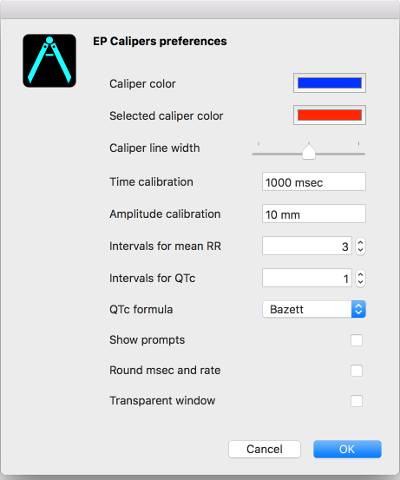
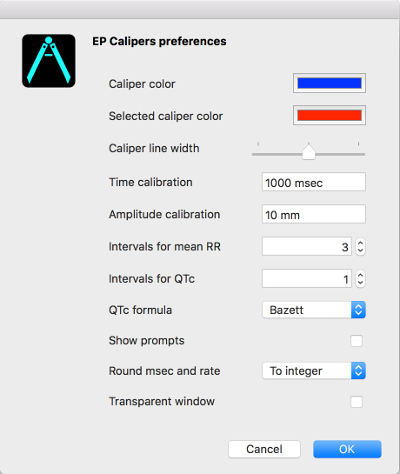
Update help file

diff --git a/EPCalipersHelp/Contents/Resources/fr.lproj/pgs/measurements.html b/EPCalipersHelp/Contents/Resources/fr.lproj/pgs/measurements.html
@@ -5,7 +5,7 @@
 <head>
 <meta http-equiv="Content-Type" content="text/html;charset=utf-8" />
 <meta name="viewport" content="width=device-width, initial-scale=1" />
-<title></title>
+<title>&lrm;</title>
 <meta name="generator" content="Org mode" />
 <meta name="author" content="David Mann" />
 <style type="text/css">
@@ -185,7 +185,7 @@
 @licstart  The following is the entire license notice for the
 JavaScript code in this tag.
 
-Copyright (C) 2012-2017 Free Software Foundation, Inc.
+Copyright (C) 2012-2018 Free Software Foundation, Inc.
 
 The JavaScript code in this tag is free software: you can
 redistribute it and/or modify it under the terms of the GNU
@@ -229,29 +229,29 @@ for the JavaScript code in this tag.
 </head>
 <body>
 <div id="content">
-<div id="outline-container-org5c550ef" class="outline-2">
-<h2 id="org5c550ef"><img src="../../shrd/icon_32x32@2x.png" alt="icon_32x32@2x.png" /> Prendre des mesures</h2>
-<div class="outline-text-2" id="text-org5c550ef">
+<div id="outline-container-org700098b" class="outline-2">
+<h2 id="org700098b"><img src="../../shrd/icon_32x32@2x.png" alt="icon_32x32@2x.png" /> Prendre des mesures</h2>
+<div class="outline-text-2" id="text-org700098b">
 </div>
-<div id="outline-container-orgd1e5402" class="outline-3">
-<h3 id="orgd1e5402">L’intervalle du compas</h3>
-<div class="outline-text-3" id="text-orgd1e5402">
+<div id="outline-container-org159503d" class="outline-3">
+<h3 id="org159503d">L’intervalle du compas</h3>
+<div class="outline-text-3" id="text-org159503d">
 <p>
 L’intervalle mesuré par chaque compas est indiqué au dessus ou à coté de la barre transversale du compas.  Avant l’étalonnage des compas, les mesures sont indiquées dans des unités arbitraires (des points, égals environ aux pixels d’écran).  Les compas d’angle montrent l’angle mesuré en degrés et il ne faut pas de les étalonner. 
 </p>
 </div>
 </div>
-<div id="outline-container-orgc0c1740" class="outline-3">
-<h3 id="orgc0c1740">Invites sur écran</h3>
-<div class="outline-text-3" id="text-orgc0c1740">
+<div id="outline-container-org3c7841b" class="outline-3">
+<h3 id="org3c7841b">Invites sur écran</h3>
+<div class="outline-text-3" id="text-org3c7841b">
 <p>
 Si la <a href="./preferences.html">préférence</a> <i>Des messages-guides</i> est choisi (c’est par défaut) l’application vous guidera avec des instructions détaillées sur comment on prend chaque mesure.  Après que vous apprenez comment faire les mesures vous pouvez désactiver cette préférence pour réduire le nombre des messages-guides.  Des messages-guides se montrent en haut de la fênetre, juste au-dessous des barres d’outils. Par exemple, en mesurant l’intervalle RR moyen, si la préférence <i>Des message-guides</i> est activée, l’application va d’abord vous inviter à choisir un compas de temps, puis l’étendre sur un nombre d’intervalles, et enfin cliquer <i>Prochain</i> sur la barre d’outils <i>Navigation</i>.  Une boîte de dialogue apparaîtra et demandera combien d’intervalles sont mesurés.  Après l’entrée du nombre et avoir cliqué sur le bouton <i>Calculer</i>, le résultat apparaîtra.  Si la préférence <i>Des messages-guides</i> est désactivée, vous pouvez choisir un compas et l’étendre sur un nombre d’intervalles sans messages-guides, et puis appuyer le bouton <i>FCM</i> (Fréquence cardiaque moyenne) ou la commande de menu <b>Compas | Intervalle moyen/Fréquence moyenne</b>.  Le resultat sera le même.
 </p>
 </div>
 </div>
-<div id="outline-container-org112abc2" class="outline-3">
-<h3 id="org112abc2">Étalonnage</h3>
-<div class="outline-text-3" id="text-org112abc2">
+<div id="outline-container-orgd5bf533" class="outline-3">
+<h3 id="orgd5bf533">Étalonnage</h3>
+<div class="outline-text-3" id="text-orgd5bf533">
 <p>
 Il faut étalonner des compas avant que des mesures peuvent être faire.  Si la préférence <i>Des message-guides</i> est activée, appuyer le bouton <i>Étalonner</i> ou choisir la commande de menu <b>Compas | Étalonner</b>.  Suivre les invites sur écran pour choisir un compas et l’étendre sur un intervalle connu (p.e. 1000 msec pour un compas de temps ou 10 mm pour un compas d’amplitude).  Appuyer le bouton <i>Prochain</i>.  Dans la boîte de dialogue qui apparait, assurer-vous que l’intervalle correspond à la mesure.  Saisir l’intervalle d’étalonnage et les unités (les deux), p.e. 1000 msec ou 1 mV.  Appuyer le bouton <i>Étalonner</i> dans la boîte de dialogue pour fixer l’étalonnage.  Noter qu'il faut que les compas de temps et d'amplitude soient étalonnés individuellement.  Après l'étalonnage, les compas montreront les intervalles avec les unités utilisées pour les étalonner.  Des nouveaux compas créés utiliseront le même étalonnage.
 </p>
@@ -265,33 +265,33 @@ Il est important d’utiliser des unités de temps comme <i>msec</i> ou <i>sec</
 </p>
 </div>
 </div>
-<div id="outline-container-org32b1428" class="outline-3">
-<h3 id="org32b1428">Changement de l’étalonnage</h3>
-<div class="outline-text-3" id="text-org32b1428">
+<div id="outline-container-org66e04b6" class="outline-3">
+<h3 id="org66e04b6">Changement de l’étalonnage</h3>
+<div class="outline-text-3" id="text-org66e04b6">
 <p>
 Vous pouvez réétalonner à tout moment.  L'étalonnage peut être complètement effacé en choisissant <b>Effacer</b> sur le menu d'étalonnage.  Noter que l'étalonnage continue quand l'image est zoomée.  La sélection d'une nouvelle image ou le changement du mode à la fenetre transparente effacera l'étalonnage.  Si vous voulez tourner l’image, vous devez d’abord effacer l’étalonnage.
 </p>
 </div>
 </div>
-<div id="outline-container-org1514b18" class="outline-3">
-<h3 id="org1514b18">Intervalle/fréquence</h3>
-<div class="outline-text-3" id="text-org1514b18">
+<div id="outline-container-orgb072868" class="outline-3">
+<h3 id="orgb072868">Intervalle/fréquence</h3>
+<div class="outline-text-3" id="text-orgb072868">
 <p>
 Après qu'un compas de temps est étalonné, si vous utilisez des unités du temps (par exemple msec ou sec) pour l'étalonnage, il est possible d'alterner entre les mesures d'intervalle (par exemple 600 msec) et les mesures de fréquence cardiaque (par exemple 100 bpm) en choisissant le bouton <i>I/FC</i> ou la commande de menu <b>Compas | Alterner intervalle/fréquence</b>.
 </p>
 </div>
 </div>
-<div id="outline-container-org2bd3071" class="outline-3">
-<h3 id="org2bd3071">Calcul de la fréquence moyenne et de l'intervalle moyen</h3>
-<div class="outline-text-3" id="text-org2bd3071">
+<div id="outline-container-org73ea6bc" class="outline-3">
+<h3 id="org73ea6bc">Calcul de la fréquence moyenne et de l'intervalle moyen</h3>
+<div class="outline-text-3" id="text-org73ea6bc">
 <p>
 Sélectionner un compas étalonné et mesurer un nombre d'intervalles.  Choisir le bouton <i>FCM</i> et saisir le nombre d'intervalles mesurés.  Une boîte de dialogue montrera la fréquence cardiaque moyenne calculée et l'intervalle moyen.  Cela est utile pour le calcul des fréquences et des intervalles pendant un rythme irrégulier, par exemple la fibrillation auriculaire.
 </p>
 </div>
 </div>
-<div id="outline-container-org135d7ce" class="outline-3">
-<h3 id="org135d7ce">Calcul du QT corrigé</h3>
-<div class="outline-text-3" id="text-org135d7ce">
+<div id="outline-container-org9531036" class="outline-3">
+<h3 id="org9531036">Calcul du QT corrigé</h3>
+<div class="outline-text-3" id="text-org9531036">
 <p>
 La mesure de QTc est un procédé en plusieurs étapes et donc les messages-guides se montrent toujours.  Choisir le bouton <i>QTc</i> ou la commande de menu <b>Compas | Mesurer le QTc</b>.  Étendre le compas sélectionné sur un ou plusieurs intervalles RR et puis choisir le bouton <i>Prochain</i>.  Saisir le nombre d'intervalles étant mesurés et puis choisir <b>Continuer</b>.  Utiliser le même compas pour mesurer l'intervalle QT.  Choisir le bouton <i>Prochain</i>.  Une boîte de dialogue montrera le QT calculé en utilisant la formule de Bazett par défaut.  Choisir <b>Répéter QT</b> pour faire une nouvelle mesure du QT avec le même intervalle RR, ou choisir <b>OK</b> pour terminer.  On peut changer la formule en utilisant <a href="./preferences.html">les préférences</a>.
 </p>
@@ -304,9 +304,9 @@ La mesure de QTc est un procédé en plusieurs étapes et donc les messages-guid
 </div>
 </div>
 
-<div id="outline-container-orgd79b426" class="outline-3">
-<h3 id="orgd79b426"><a id="org5696295"></a>Brugadometer</h3>
-<div class="outline-text-3" id="text-orgd79b426">
+<div id="outline-container-orgdb220ba" class="outline-3">
+<h3 id="orgdb220ba"><a id="org12a813f"></a>Brugadometer</h3>
+<div class="outline-text-3" id="text-orgdb220ba">
 <p>
 Le <b>Brugadometer</b> est un outil de diagnostic, utilisé pour l'analyse du syndrome de Brugada.  Cet outil a été développé en collaboration avec Dr. Adrian Baranchuk et ses collègues à l'Université Queens, Kingston, en Ontario.  Le Brugadometer peut distinguer entre un bloc de branche droite incomplète, et un motif du syndrome de Brugada aux fils V1 ou V2.  Cet outil est en cours de développement dans <b>Compas EP</b> et il évoluera dans des futures versions.  Pour utiliser le <b>Brugadometer</b>, il faut étalonner un compas de temps en msec ou mm et un compas d'amplitude en mm.  Ensuite, un compas d'angle apparaîtra avec un triangle au sommet comme ceci.
 </p>

diff --git a/EPCalipersHelp/Contents/Resources/fr.lproj/pgs/preferences.html b/EPCalipersHelp/Contents/Resources/fr.lproj/pgs/preferences.html
@@ -5,7 +5,7 @@
 <head>
 <meta http-equiv="Content-Type" content="text/html;charset=utf-8" />
 <meta name="viewport" content="width=device-width, initial-scale=1" />
-<title></title>
+<title>&lrm;</title>
 <meta name="generator" content="Org mode" />
 <meta name="author" content="David Mann" />
 <style type="text/css">
@@ -185,7 +185,7 @@
 @licstart  The following is the entire license notice for the
 JavaScript code in this tag.
 
-Copyright (C) 2012-2017 Free Software Foundation, Inc.
+Copyright (C) 2012-2018 Free Software Foundation, Inc.
 
 The JavaScript code in this tag is free software: you can
 redistribute it and/or modify it under the terms of the GNU
@@ -229,9 +229,9 @@ for the JavaScript code in this tag.
 </head>
 <body>
 <div id="content">
-<div id="outline-container-org5411c34" class="outline-2">
-<h2 id="org5411c34"><img src="../../shrd/icon_32x32@2x.png" alt="icon_32x32@2x.png" /> Préférences</h2>
-<div class="outline-text-2" id="text-org5411c34">
+<div id="outline-container-org80c97ba" class="outline-2">
+<h2 id="org80c97ba"><img src="../../shrd/icon_32x32@2x.png" alt="icon_32x32@2x.png" /> Préférences</h2>
+<div class="outline-text-2" id="text-org80c97ba">
 <p>
 Les préférences d’application peuvent être choisies en utilisant la commande de menu <b>Compas EP | Préférences</b>.  Vous pouvez changer les couleurs de compas, la larguer de ligne de compas, ainsi que l’intervalle d”étalonnage par défaut et le nombre d’intervalles pour calculer les intervalles moyens.  Par exemple, si vous utilisez toujours un intervalle RR pour calculer le QTc, mettre le <i>Nombre d’intervalles RR pour QTc</i> à un intervalle.  Noter que vous pouvez changer ces nombres quand vous prenez les mesures.  Vous pouvez aussi utilisez le dialog de préférences pour activer la fênetre transparente.
 </p>
@@ -242,9 +242,9 @@ Les préférences d’application peuvent être choisies en utilisant la command
 <p><span class="figure-number">Figure 1: </span>Préférences</p>
 </div>
 </div>
-<div id="outline-container-org68604ec" class="outline-3">
-<h3 id="org68604ec">Préférences expliquées</h3>
-<div class="outline-text-3" id="text-org68604ec">
+<div id="outline-container-orgd2a4bda" class="outline-3">
+<h3 id="orgd2a4bda">Préférences expliquées</h3>
+<div class="outline-text-3" id="text-orgd2a4bda">
 <ul class="org-ul">
 <li>Couleur de compas: C’est la couleur d’un compas ajouté qui est non choisi.  Cette couleur peut étre plus tard changée par un clic-droit sur le compas et puis en choisissant <b>Couleur de compas</b>.</li>
 <li>Couleur de compas choisi: C’est la couleur d’un compas sélectioné.</li>
@@ -255,7 +255,7 @@ Les préférences d’application peuvent être choisies en utilisant la command
 <li>No. d’int RR pour QTc: Le nombre d’intervalles par défaut que vous utilisez pour mesurer l’intervalle RR moyen pour calculer le QT corrigé.</li>
 <li>Formule QTc: Choisir une formule pour calculer le QTc.  Choisir « Toutes » pour utiliser toutes les formules.</li>
 <li>Des message-guides: Des messages-guides sont utiles quand vous êtes en train d’apprendre l’application. Vous pouvez l’accélérer en désactivant cette option.  Des messages-guides vous guident dans les étapes d’étalonnage et de mesures.</li>
-<li>Arrondir msec et bpm: Arrondir des intervalles dans msec et des fréquences à l’entier le plus proche.  Noter que les valeurs dans secs ou autres unités ne sont arrondies jamais.</li>
+<li>Arrondir msec et bpm: Choisir comment arrondir les intervalles dans msec et les fréquences.  Les choix sont d’arrondir à l’entier le plus proche (examples: 305,463 devient 305, 1010,728 devient 1011), à 4 chiffres (305,5 et 1011), à 1 decimale (305,5 et 1010,7), ou à 2 decimales (305,46 et 1010,73).  Noter que les valeurs dans secs ou autres unités et les valeurs calculées comme le QTc sont toujours arrondées à 4 chiffres.</li>
 <li>Fênetre transparente: La fênetre primaire doit transparente.  <b>Compas EP</b> peut alors être utilisé comme un compas flottant pour mesurer des images sur votre bureau.</li>
 </ul>
 </div>

diff --git a/EPCalipersHelp/Contents/Resources/English.lproj/pgs/preferences.html b/EPCalipersHelp/Contents/Resources/English.lproj/pgs/preferences.html
@@ -229,9 +229,9 @@ for the JavaScript code in this tag.
 </head>
 <body>
 <div id="content">
-<div id="outline-container-orge459e66" class="outline-2">
-<h2 id="orge459e66"><img src="../../shrd/icon_32x32@2x.png" alt="icon_32x32@2x.png" /> Preferences</h2>
-<div class="outline-text-2" id="text-orge459e66">
+<div id="outline-container-org9eca5ec" class="outline-2">
+<h2 id="org9eca5ec"><img src="../../shrd/icon_32x32@2x.png" alt="icon_32x32@2x.png" /> Preferences</h2>
+<div class="outline-text-2" id="text-org9eca5ec">
 <p>
 Preferences can be selected using the <b>EP Calipers | Preferences</b> menu item.  You can change caliper colors, line width of the calipers, as well as default calibration intervals and number of intervals used to calculate mean intervals.  For example, if you usually use just 1 RR interval to calculate the QTc, set the number of mean RR intervals for the QTc measurement to 1 interval.  Remember though you can override any of these values when you actually do the measurements.  You can also use the dialog to change to a transparent window.
 </p>
@@ -242,9 +242,9 @@ Preferences can be selected using the <b>EP Calipers | Preferences</b> menu item
 <p><span class="figure-number">Figure 1: </span>Preferences</p>
 </div>
 </div>
-<div id="outline-container-org7ebf964" class="outline-3">
-<h3 id="org7ebf964">Preferences explained</h3>
-<div class="outline-text-3" id="text-org7ebf964">
+<div id="outline-container-orgf6e65a1" class="outline-3">
+<h3 id="orgf6e65a1">Preferences explained</h3>
+<div class="outline-text-3" id="text-orgf6e65a1">
 <ul class="org-ul">
 <li>Caliper color: This is the color of unselected newly added calipers.  Note that this color can be overwritten by right-clicking on a caliper and selecting <b>Caliper Color</b>.</li>
 <li>Selected caliper color: This is the color of the selected caliper.</li>
@@ -255,7 +255,7 @@ Preferences can be selected using the <b>EP Calipers | Preferences</b> menu item
 <li>Intervals for QTc: The default number of intervals you use to measure the mean RR interval for QTc measurements.</li>
 <li>QTc formula: Choose a QTc formula.  Choose "All" to use all the formulas.</li>
 <li>Show prompts:  Prompting is useful when you are first learning the program, but it is faster to disable this option.  Prompts guide you through the steps of calibrating and making measurements.</li>
-<li>Round msec and rate: Choose how msec and rate values are displayed.  Choices include round to the nearest integer (e.g. 123 msec), display 4 digits (e.g. 123.4 and 12.34), round to tenths (e.g. 123.4, 12.3), and round to hundredths (e.g. 123.45, 12.35).  Note that values in secs or values using other units are never rounded regardless of this preference and are always shown using 4 digits.</li>
+<li>Round msec and rate: Choose how msec and rate values are displayed.  Choices include round to the nearest integer (e.g. 305.463 becomes 305, 1010.728 becomes 1011), display 4 digits (e.g. 305.5 and 1011), round to tenths (e.g. 305.5 and 1010.7), and round to hundredths (305.46 and 1010.73).  Note that values in secs or values using other units and calculated values such as QTc are always shown using 4 digits.</li>
 <li>Transparent window: Makes the main window transparent.  <b>EP Calipers</b> can then be used as a floating caliper to measure anything you have open on your Desktop.</li>
 </ul>
 </div>

diff --git a/EP Calipers/MainWindowController.swift b/EP Calipers/MainWindowController.swift
@@ -346,9 +346,8 @@ class MainWindowController: NSWindowController, NSTextFieldDelegate, CalipersVie
             appPreferences.defaultNumberOfQTcMeanRRIntervals = numberOfQTcMeanRRIntervalsStepper.integerValue
             appPreferences.showPrompts = showPromptsCheckBox.integerValue == 1 ? true : false
             appPreferences.transparency = transparencyCheckBox.integerValue == 1 ? true : false
-            // TODO: remove forced unwrapping here
-            appPreferences.qtcFormula = QTcFormulaPreference(rawValue: formulaPopUpButton.indexOfSelectedItem)!
-            appPreferences.rounding = Rounding(rawValue: roundingPopUpButton.indexOfSelectedItem)!
+            appPreferences.qtcFormula = QTcFormulaPreference(rawValue: formulaPopUpButton.indexOfSelectedItem) ?? QTcFormulaPreference.Bazett
+            appPreferences.rounding = Rounding(rawValue: roundingPopUpButton.indexOfSelectedItem) ?? Rounding.ToInteger
             appPreferences.savePreferences()
             // update calipersView
             calipersView.updateCaliperPreferences(appPreferences.caliperColor, selectedColor: appPreferences.highlightColor, lineWidth: appPreferences.lineWidth, rounding: appPreferences.rounding)
@@ -375,7 +374,7 @@ class MainWindowController: NSWindowController, NSTextFieldDelegate, CalipersVie
         roundingPopUpButton.addItem(withTitle: NSLocalizedString("To tenths", comment: ""))
         roundingPopUpButton.addItem(withTitle: NSLocalizedString("To hundredths", comment: ""))
         // TODO: remove in production
-        roundingPopUpButton.addItem(withTitle: "Raw")
+        //roundingPopUpButton.addItem(withTitle: "Raw")
     }
     
     @IBAction func numberOfMeanRRStepperAction(_ sender: AnyObject) {

diff --git a/EP CalipersTests/EP_CalipersTests.swift b/EP CalipersTests/EP_CalipersTests.swift
@@ -7,8 +7,8 @@
 //
 
 import XCTest
-@testable import EP_Calipers
 @testable import QTc
+@testable import EP_Calipers
 
 class EP_CalipersTests: XCTestCase {
     
@@ -91,7 +91,7 @@ class EP_CalipersTests: XCTestCase {
 
     }
     
-    func textUnitsAreMM() {
+    func testUnitsAreMM() {
         let cal = Calibration()
         cal.calibrated = true
         cal.direction = .vertical
@@ -128,7 +128,20 @@ class EP_CalipersTests: XCTestCase {
         XCTAssertEqual(result, "Mean RR = 1 sec\nQT = 0.4 sec\nQTc = 0.4 sec (Bazett formula)")
         result = qtcResult.calculate(qtInSec: 0.4, rrInSec: 1.0, formula: .Hodges, convertToMsec: false, units: "sec")
         XCTAssertEqual(result, "Mean RR = 1 sec\nQT = 0.4 sec\nQTc = 0.4 sec (Hodges formula)")
-        
+    }
+
+    func testNumberFormatting() {
+        let x = 305.463
+        let y = 1010.728
+        XCTAssertEqual(String(format: "%d", Int(round(x))), "305")
+        XCTAssertEqual(String(format: "%d", Int(round(y))), "1011")
+        XCTAssertEqual(String(format: "%.4g", x), "305.5")
+        XCTAssertEqual(String(format: "%.4g", y), "1011")
+        XCTAssertEqual(String(format: "%.1f", x), "305.5")
+        XCTAssertEqual(String(format: "%.1f", y), "1010.7")
+        XCTAssertEqual(String(format: "%.2f", x), "305.46")
+        XCTAssertEqual(String(format: "%.2f", y), "1010.73")
+
     }
     
 }

diff --git a/EP Calipers/Caliper.swift b/EP Calipers/Caliper.swift
@@ -73,8 +73,7 @@ class Caliper: NSObject {
         self.selectedColor = NSColor.red
         self.lineWidth = 2
         self.selected = false
-        self.textFont = NSFont.systemFont(ofSize: 18, weight: NSFont.Weight.medium)
-        //self.textFont = NSFont(name: "Helvetica", size: 18.0)!
+        self.textFont = NSFont(name: "Helvetica Neue Medium", size: 18.0) ?? NSFont.systemFont(ofSize: 18, weight: NSFont.Weight.medium)
         self.paragraphStyle = NSParagraphStyle.default.mutableCopy() as! NSMutableParagraphStyle
         self.roundMsecRate = true
         self.rounding = .ToInteger
@@ -222,12 +221,6 @@ class Caliper: NSObject {
         }
     }
 
-    // TODO: Fix rounding here: We need to use the chosen rounding in preferences
-    // Also need to make rounding match in QTc and mRR interval result dialogs
-    // TODO: values displayed should actually be rounded and not truncated as they are
-    // now.  E.g., a value 123.45000 should be displaed as 123.5 and not 123.4.  This
-    // is important for scientific use.  Need to refactor the whole number generating
-    // process.
     func measurement() -> String {
         var s: String
         var format: NSString

diff --git a/EP Calipers/AngleCaliper.swift b/EP Calipers/AngleCaliper.swift
@@ -170,7 +170,6 @@ class AngleCaliper: Caliper {
         text.draw(in: CGRect(x: point2.x > point1.x ? point1.x - 25 : point2.x - 25, y: point1.y - 25, width: fmax(100.0, fabs(point2.x - point1.x) + 50), height: 20),  withAttributes:attributes)
     }
 
-    // TODO: Fix rounding here: We need to use the chosen rounding in preferences
     func baseMeasurement(_ lengthInPoints: Double) -> String {
         var s: String
         var format: NSString

diff --git a/EP CalipersUITests/EP_CalipersUITests.swift b/EP CalipersUITests/EP_CalipersUITests.swift
@@ -41,9 +41,9 @@ class EP_CalipersUITests: XCTestCase {
 //        app.dialogs["alert"].buttons["Calibrate"].click()
 //        normal12LeadEcgJpgWindow.buttons["R/I"].click()
 //        normal12LeadEcgJpgWindow.buttons["Clear"].click()
-//        
-//    
-    
+//
+
+
     }
     
 }
